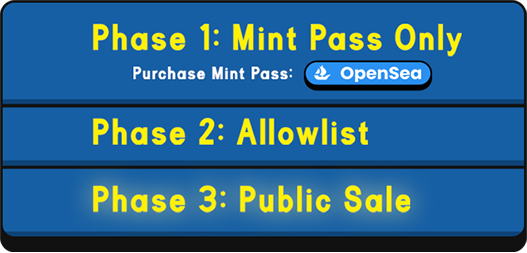
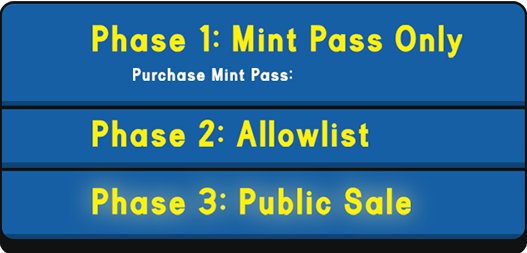
new UI

diff --git a/public/config/theme.css b/public/config/theme.css
@@ -180,6 +180,16 @@ body {
   cursor: default !important;
 }
 
+.btn-opensea {
+  position: absolute;
+  width: 5.5vw;
+  margin: auto;
+  left: 29.5%;
+  top: 39.5%;
+  cursor: pointer !important;
+
+}
+
 .mintWithCard {
   position: absolute;
   width: 25vw;
@@ -276,21 +286,49 @@ background-size: cover; */
   float: right;
 }
 
+  
+
+
 .mint-amt{
   position: absolute;
   z-index: 3;
-  top: 27vw;
+  top: 25vw;
   right: 15vw;
   width: 20vw;
+}
+
+.total-price{
+  position: absolute;
+  z-index: 3;
+  top: 30vw;
+  right: 10vw;
+  width: 20vw;
+  font-size: 2rem;
+  color: #ff0000;
+
 }
 
 .mint {
   position: absolute;
   z-index: 3;
-  top: 32vw;
-  right: 15vw;
-  width: 20vw;
+  top: 35vw;
+  right: 18vw;
+  width: 12vw;
   cursor: pointer;
+
+}
+
+.maxMintable{
+  position: absolute;
+  z-index: 3;
+  top: 41vw;
+  right: 20vw;
+  margin: auto;
+  color: #000;
+  font-size: 14px;
+  text-align: center;
+  font-family: sans-serif;
+  font-weight: 700;
 
 }
 
@@ -300,7 +338,37 @@ background-size: cover; */
   display: none;
 }
 
+@media (max-width: 1130px) {
+
+  .total-price{    
+  position: absolute;
+  top: 31vw;
+  right: 14vw;
+  }
+
+}
+
+
+@media (max-width: 950px) {
+
+  .total-price{    
+  position: absolute;
+  top: 31vw;
+  right: 14vw;
+  font-size: 1.8em;
+  }
+
+}
+
+
 @media (max-width: 767px) {
+
+ 
+  
+
+  .mint-amount {
+    font-size: 2rem;
+  }
 
   .bg,
   .paper,
@@ -362,24 +430,19 @@ background-size: cover; */
       font-family: Megusto;
       left: 12%;
     }
-    
-
-
+   
   .btn-container .text {
     font-family: Megusto;
     font-size: 1.2vw;
     color: yellow;
     user-select: none;
   }
-
-    
-  
- 
+      
   .m-token {
     display: block;
     width: 80%;
     min-height: 100%;
-    margin-top: 20em;
+    margin-top: 25em;
   }
 
   .m-token img {
@@ -390,7 +453,7 @@ background-size: cover; */
 
   .mint {
     top: unset;
-    bottom: 50vw;
+    bottom: 52vw;
     left: 0;
     right: 0;
     width: 25vw;
@@ -399,15 +462,38 @@ background-size: cover; */
 
   }
 
+  .maxMintable{
+    top: unset;
+    bottom: 48vw;
+    left: 0;
+    right: 0;
+    width: 25vw;
+    font-size: 0.8em;
+    
+  
+  }
+
   .mint-amt{
     top: unset;
-    bottom: 60vw;
+    bottom: 67vw;
     z-index: 3;
     left: 0;
     right: 0;
-    width: 20vw;
+    width: 28vw;
     margin: auto;
   }
+
+  .total-price{    
+    top: unset;
+    bottom: 64vw;
+    z-index: 3;
+    left: 0;
+    right: 0;
+    width: 28vw;
+    margin: auto;
+    
+    }
+  
 
   .wallet {
     position: absolute;
@@ -427,6 +513,16 @@ background-size: cover; */
     cursor: none !important;
   }
 
+  .btn-opensea {
+    position: absolute;
+    width:10vw;
+    margin: auto;
+    left: 53%;
+    top: 12.6%;
+    cursor: pointer !important;
+  
+  }
+
   .mintWithCard {
     position: absolute;
     width: 50vw;
@@ -437,10 +533,24 @@ background-size: cover; */
 }
 
 
+@media (max-width: 650px) {
+
+
+  .total-price{    
+    font-size: 1.3em;
+    
+    }
+
+}
+
 @media (max-width: 510px) {
 
   .main {
     background-image: none;
+  }
+
+  .maxMintable{
+    font-size: 0.6em;
   }
 }
 
@@ -464,21 +574,43 @@ background-size: cover; */
 
   .mint {
     top: unset;
-    bottom: 60vw;
+    bottom: 63vw;
     left: 6%;
     width: 30vw;
     margin: auto;
 
   }
+
+  .maxMintable{
+    top: unset;
+    bottom: 59vw;
+    left: 0;
+    right: 0;
+    width: 25vw;
+    font-size: 0.5em;
+    
+  
+  }
+
 
   .mint-amt {
     top: unset;
-    bottom: 70vw;
+    bottom: 78vw;
     left: 6%;
-    width: 30vw;
+    width: 34vw;
     margin: auto;
 
   }
+
+  .total-price{    
+    top: unset;
+    bottom: 76vw;
+    left: 6%;
+    width: 34vw;
+    margin: auto;
+    font-size: 1.3em;
+    
+    }
 
   .wallet {
     position: absolute;
@@ -504,6 +636,15 @@ background-size: cover; */
     width: 60vw;
     left: 20%;
     top: 10%;
+  }
+
+   .btn-opensea {
+    width:11vw;
+    margin: auto;
+    left: 54%;
+    top: 13.3%;
+    cursor: pointer !important;
+  
   }
 
   .mintWithCard {
@@ -572,11 +713,25 @@ background-size: cover; */
   }
 
   .mint{
-    bottom: 57vw;
+    bottom: 55vw;
+  }
+  .total-price{    
+    
+    bottom: 68vw;   
+    font-size: 1em;
+    
+    }
+
+  .maxMintable{
+    bottom: 56vw;    
+    font-size: 0.5em;
+    
+  
   }
 
+
   .mint-amt{
-    bottom: 67vw;
+    bottom: 71vw;
   }
   
 }
@@ -601,5 +756,12 @@ background-size: cover; */
   .timer-container {
     margin-top: 0px;
     margin-bottom: 0px;
+  }
+
+  .maxMintable{
+    bottom: 56vw;    
+    font-size: 0.5em;
+    width: 80vw;  
+  
   }
 }

diff --git a/src/pages/HomePage/Home.js b/src/pages/HomePage/Home.js
@@ -19,6 +19,9 @@ import btn from "../../assests/images/btn.png";
 import mint from "../../assests/images/mint.png";
 import Connectwallet from "../../assests/images/Connect_Wallet.png";
 import phase1 from "../../assests/images/phase-01.png";
+import phase2 from "../../assests/images/phase-02.png";
+import phase3 from "../../assests/images/phase-03.png";
+import btnOpenSea from "../../assests/images/btn-opensea.png";
 import mintWithCard from "../../assests/images/btn-mintCard.png";
 
 const { createAlchemyWeb3 } = require("@alch/alchemy-web3");
@@ -54,7 +57,7 @@ function Home() {
   const [feedback, setFeedback] = useState("");
   const [statusAlert, setStatusAlert] = useState("");
   const [mintAmount, setMintAmount] = useState(1);
-  const [displayCost, setDisplayCost] = useState(0);
+  const [displayCost, setDisplayCost] = useState(0.0);
   const [state, setState] = useState(-1);
   const [nftCost, setNftCost] = useState(-1);
   const [canMintWL, setCanMintWL] = useState(false);
@@ -83,7 +86,7 @@ function Home() {
     SHOW_BACKGROUND: false,
   });
 
-  let countDownDate = new Date("2022-07-15T18:00:00-0800");
+  let countDownDate = new Date("2022-07-15T18:30:00-0800");
 
   let now = new Date().getTime();
   let timeleft = countDownDate - now;
@@ -291,7 +294,14 @@ function Home() {
 
         <div className="main">
           <img src={Connectwallet} className="wallet" />
+
+          {/* phases based on state */}
+
           <img src={phase1} className="phases" />
+          <a href="https://opensea.io/collection/nftmagpass" target="blank">
+            <img src={btnOpenSea} className="btn-opensea" />
+          </a>
+
           {/* timer hide code */}
           {days >= 0 && hours >= 0 && minutes >= 0 && seconds >= 0 && (
             <div className="timer-container">
@@ -348,11 +358,20 @@ function Home() {
             </s.AmountContainer>
           </div>
 
+          <div className="total-price mint-amount">
+            Total Price: {displayCost}
+          </div>
+
           <a>
             <img src={mint} alt="" className="mint" />
           </a>
+          <div className="maxMintable">
+            <p>*MAX 10 MINTABLE</p>
+          </div>
         </div>
       </div>
+
+      {/* purana code */}
 
       <s.FlexContainer jc={"center"} fd={"row"}>
         <s.Mint style={{ display: "none" }}>
